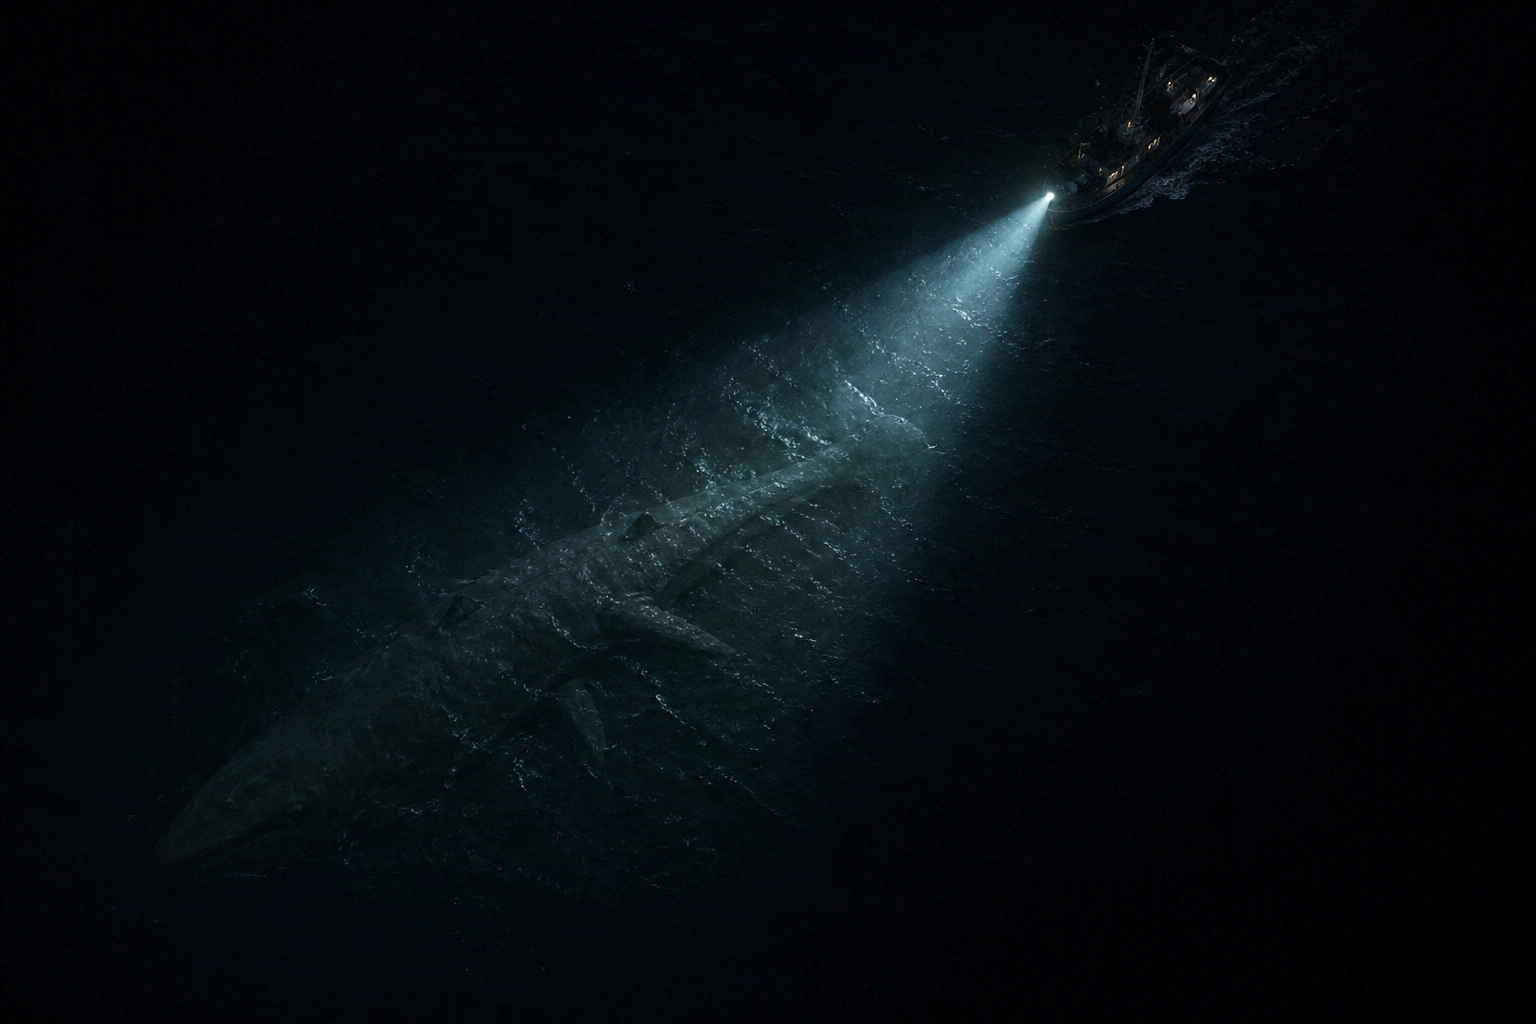
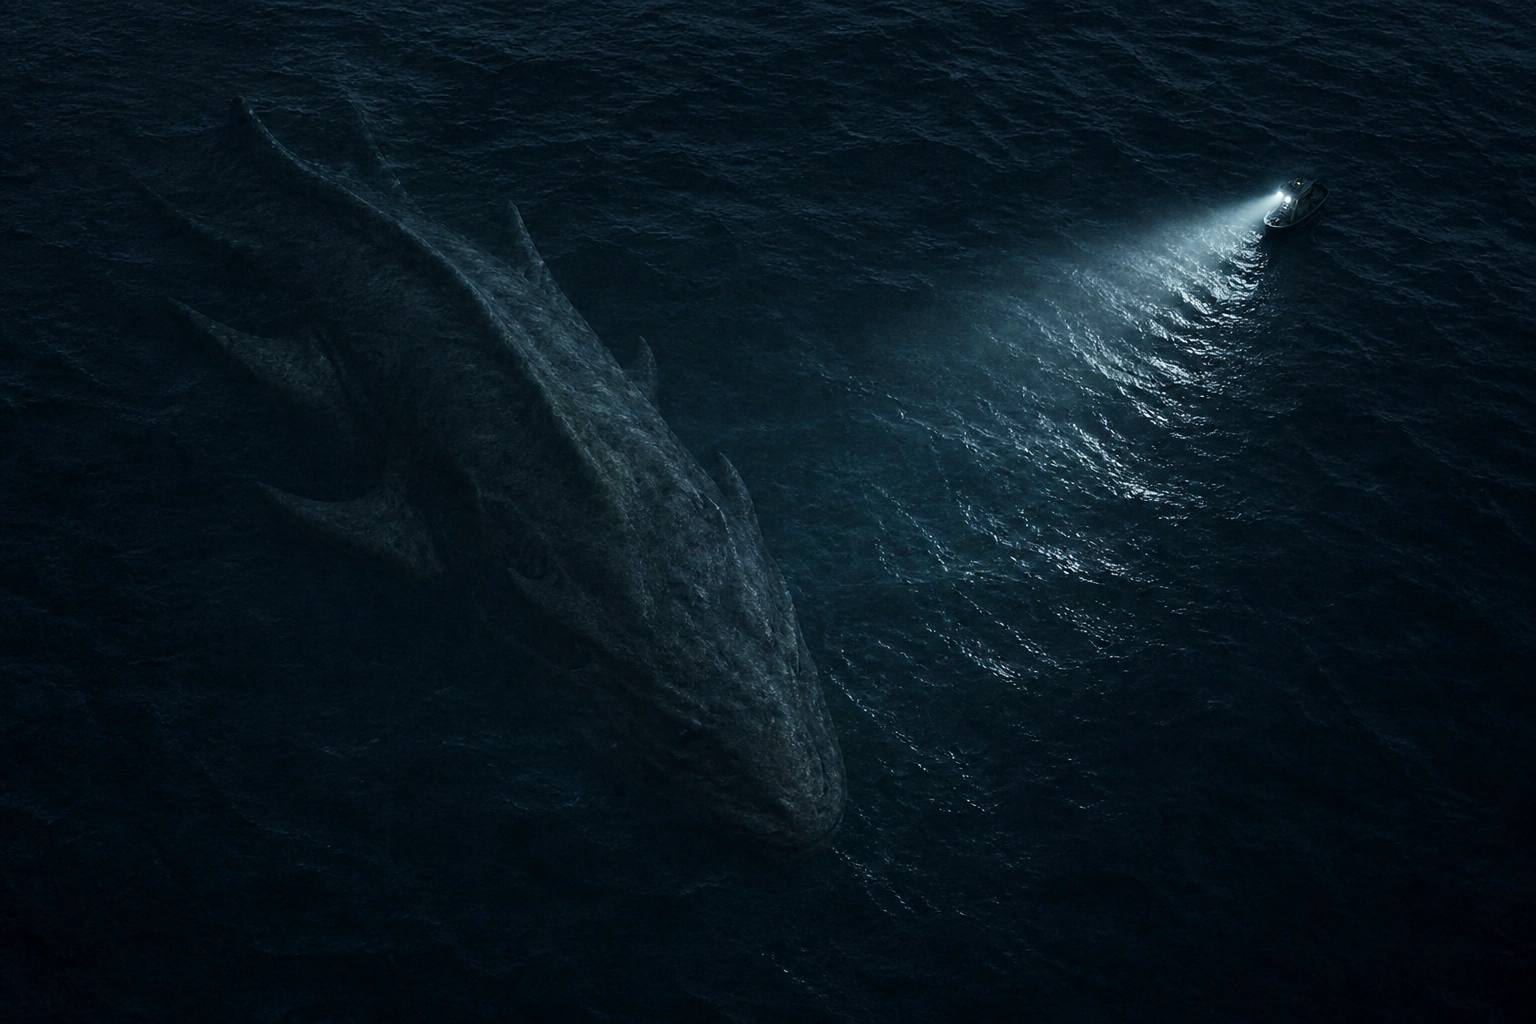
Make the MALUM searchlight a visible prism cone over a smaller boat and a larger alien-scale beast

diff --git a/lib/collections.ts b/lib/collections.ts
@@ -78,16 +78,16 @@ export const collections: Collection[] = [
       "The newest LEMARQUE collection. Scroll through every look, swipe to shop each piece.",
     longDescription:
       "MALUM is the newest chapter for LEMARQUE: gowns cut like armor, cashmere outerwear closed with shark-tooth hardware, and leather goods built to outlast trend cycles. Scroll through every look, swipe right to shop the piece, and tap through to its own page for the full story.",
-    // Aerial night plate: pulled-back boat in the upper right, searchlight
-    // shooting down-left across a dark navy sea. A giant submerged
-    // silhouette sits in the beam. The WebGPU hero samples this still and
-    // refracts the beam with live waves.
+    // Aerial night plate: tiny boat upper-right, searchlight down-left
+    // over a colossal alien-scale submerged silhouette. The WebGPU hero
+    // samples this still and refracts the painted beam with live waves.
     heroImage: {
       src: "/collections/malum/hero/malum-hero-night.webp",
-      alt: "MALUM Collection | Aerial night sea, a boat searchlight over a submerged shadow",
+      alt: "MALUM Collection | Aerial night sea, a small boat over a colossal submerged shadow",
       width: 1536,
       height: 1024,
     },
+    heroImagePosition: "82% 20%",
     // Same generated scene with the LEMARQUE mark and collection name
     // burned in, sized to the 1200x630 Open Graph standard - chat apps
     // (WhatsApp, Telegram, iMessage, ...) only ever show this flat image,

diff --git a/lib/vgpu/malum-ocean.ts b/lib/vgpu/malum-ocean.ts
@@ -13,12 +13,12 @@ export type MalumOceanOptions = {
   onError?: (error: unknown) => void;
 };
 
-export const MALUM_PLATE_SRC = "/collections/malum/hero/malum-hero-night.webp?v=2";
+export const MALUM_PLATE_SRC = "/collections/malum/hero/malum-hero-night.webp?v=4";
 
-const WIND_ANGLE = 2.25;
-const WIND_SPEED = 7;
-const BOAT_UV: readonly [number, number] = [0.72, 0.155];
-const BEAM_DIR: readonly [number, number] = [-0.63, 0.78];
+const WIND_ANGLE = 2.44;
+const WIND_SPEED = 16;
+const BOAT_UV: readonly [number, number] = [0.83, 0.19];
+const BEAM_DIR: readonly [number, number] = [-0.4, 0.92];
 
 const TEXTURE_USAGE = 0x02 | 0x04 | 0x10;
 
@@ -69,7 +69,7 @@ export function startMalumOcean(
     boatUv: [...BOAT_UV] as [number, number],
     beamDir: [...BEAM_DIR] as [number, number],
     windAngle: WIND_ANGLE,
-    quality: reduced ? 0 : 1,
+    quality: reduced ? 0.65 : 1,
   };
 
   const startLoop = () => {

diff --git a/components/malum-ocean-hero.tsx b/components/malum-ocean-hero.tsx
@@ -14,12 +14,10 @@ function prefersReducedMotion(): boolean {
   return window.matchMedia("(prefers-reduced-motion: reduce)").matches;
 }
 
-function isReducedProfile(): boolean {
+function isMobilePerf(): boolean {
   if (typeof window === "undefined") return true;
   return (
-    prefersReducedMotion() ||
-    window.matchMedia("(pointer: coarse)").matches ||
-    window.innerWidth < 768
+    window.matchMedia("(pointer: coarse)").matches || window.innerWidth < 768
   );
 }
 
@@ -36,7 +34,7 @@ export function MalumOceanHero({ collection }: { collection: Collection }) {
     let cancelled = false;
 
     handle = startMalumOcean(canvas, {
-      reduced: isReducedProfile(),
+      reduced: isMobilePerf(),
       onReady: () => {
         if (!cancelled) setLive(true);
       },

diff --git a/app/collection/[slug]/collection-detail-client.tsx b/app/collection/[slug]/collection-detail-client.tsx
@@ -46,7 +46,13 @@ function HeroParallax({ collection }: { collection: Collection }) {
             sizes="100vw"
           />
         )}
-        <div className="absolute inset-0 bg-linear-to-t from-background via-black/30 to-transparent" />
+        <div
+          className={`absolute inset-0 ${
+            collection.slug === "malum"
+              ? "bg-linear-to-t from-background/70 via-transparent to-transparent"
+              : "bg-linear-to-t from-background via-black/30 to-transparent"
+          }`}
+        />
       </motion.div>
 
       <motion.div
